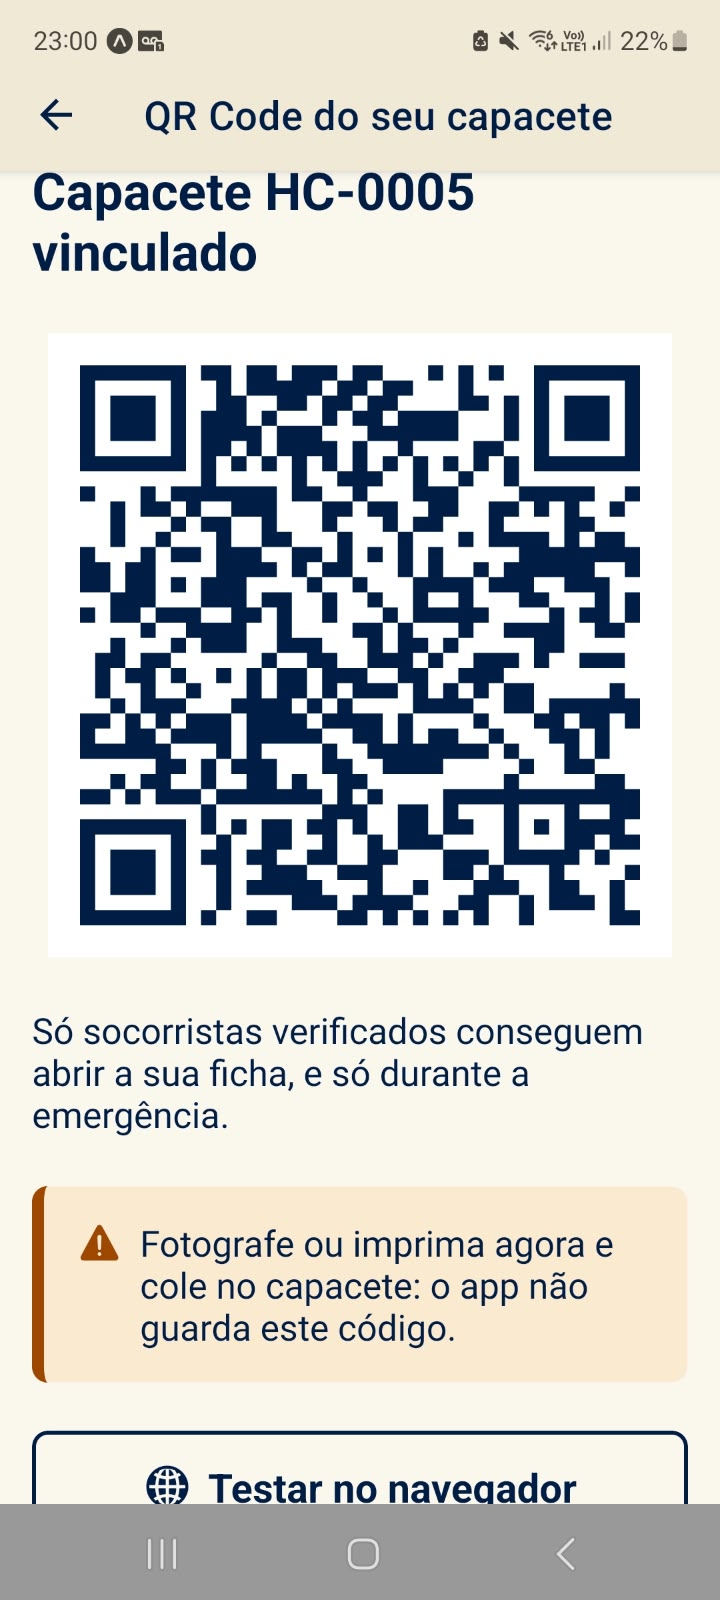
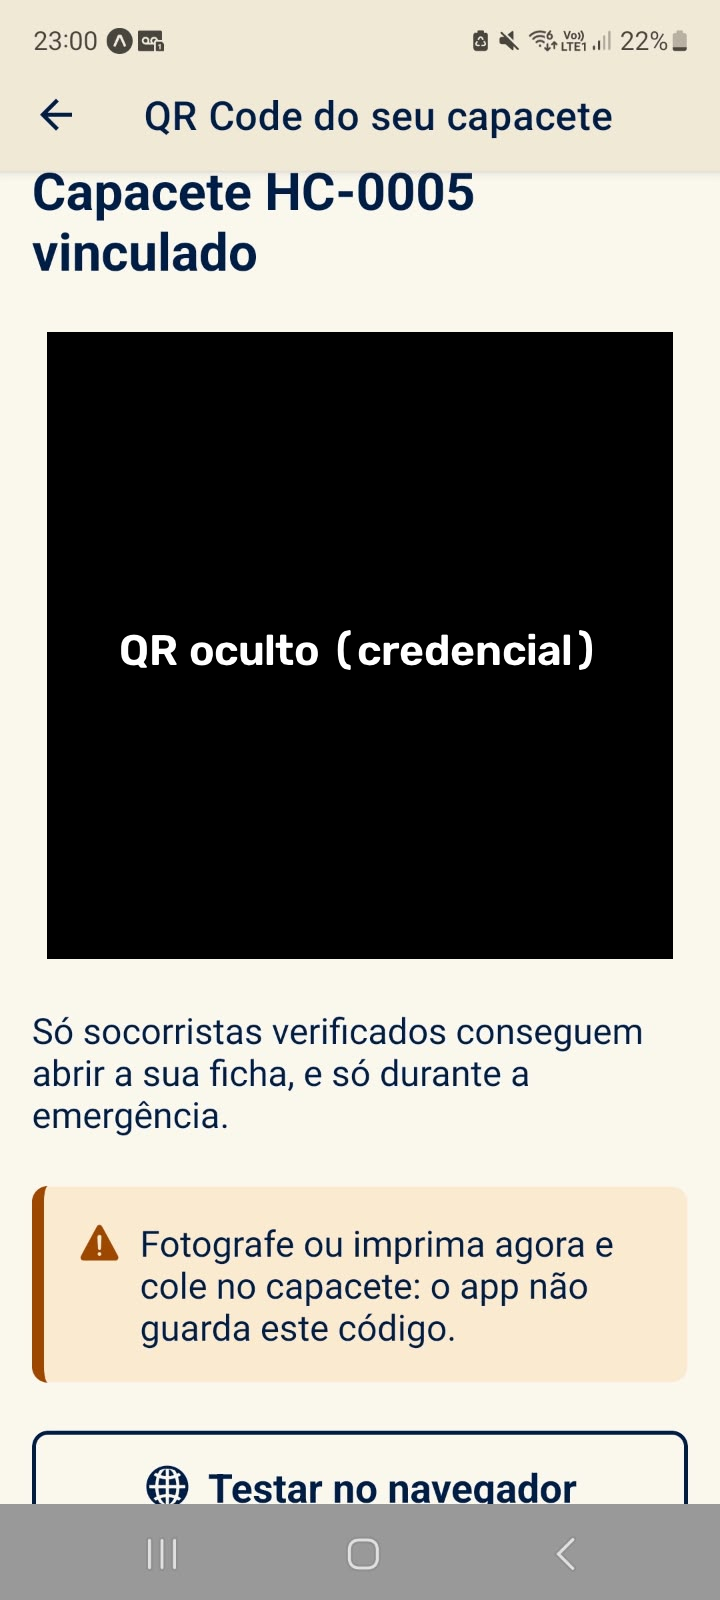
docs: links do Cyber na Ficha, prompts de Cyber e QR tarjado no print do Mobile

diff --git a/prompts.md b/prompts.md
@@ -14,7 +14,24 @@ Exemplo: `08/11 - Domínio da API: "Crie as entidades do domínio seguindo o Con
  
 ## Cybersecurity
  
-*(a preencher)*
+- 19/11 - Plano do módulo: "Monte o plano do módulo de Cybersecurity da GS com as etapas e o que cobre cada ponto da rubrica do professor: motor de PII, Taint Analysis, IA na remediação e painel Risco Cidadão."
+- 19/11 - Regras de escrita: "Textos, comentários e documentos sem travessões. Português do Brasil."
+- 19/11 - Limites do Claude Code: "O Claude Code executa seguindo o cyber/CLAUDE.md e nunca faz git add, commit, push nem troca de branch, nunca abre nem imprime .env ou segredos."
+- 19/11 - Fluxo de git: "Mande todos os comandos de git de uma vez, incluindo PR, merge e a próxima branch."
+- 19/11 - Commits sem atribuição: "Commits sem nenhuma linha de atribuição (nada de Co-Authored-By ou menção ao Claude), nem nos commits nem nas PRs."
+- 19/11 - Prazo: "Lembre que hoje é o dia da entrega: dimensione o plano para caber hoje, com o essencial primeiro e os extras marcados."
+- 19/11 - Etapa 1, motor de PII: "Etapa 1 em cyber/: motor de parsing de PII para CPF, CNH, RG, telefone, e-mail, saúde, localização e senhas, com validação dos dígitos de CPF e CNH, máscaras do Contrato e testes."
+- 19/11 - Etapa 2, Taint Analysis: "Etapa 2 em cyber/: Taint Analysis com marcação na fonte, política deny-by-default, modos AUDITORIA e PROTECAO, rastro explicável sem o valor original e cenários C1 a C11."
+- 19/11 - Etapa 3, IA e Risco Cidadão: "Etapa 3 em cyber/: tradução dos eventos por LLM em mensagem simples para o cidadão, com reserva por tabela, cache e disjuntor, e o índice Risco Cidadão de 0 a 100 com semáforo."
+- 19/11 - Etapa 4, API e painel: "Etapa 4 em cyber/: API FastAPI com interceptador de entrada e painel executivo em HTML, CSS e JS puros mostrando semáforo, mensagem e rastro."
+- 19/11 - Roteiro dos prints: "Me dê tudo detalhado de onde tenho que estar para tirar os prints e detalhes, para eu tirar os prints certos."
+- 19/11 - Ações do vídeo: "Quero que você me explique detalhadamente as ações que são para eu tomar em cada trecho, não precisa alterar nada de ação, nem fala, só as ações mais detalhadas para eu realizar as ações."
+- 19/11 - Evidências no repositório: "Vamos pedir para ele pegar os prints e o vídeo da pasta Downloads, renomear e jogar dentro de evidencias; o vídeo terá só legendas, sem narração, igual ao que fiz no Mobile."
+- 19/11 - Etapa 6, relatório e ZIP: "Etapa 6 em cyber/: auditoria do protótipo, relatório em PDF com as figuras das evidências e ZIP da entrega."
+- 19/11 - Organização das evidências: "Em evidencias, jogaria os png dentro de uma pasta chamada prints, e o video dentro de uma pasta chamada video. Nas documentações queria que ele usasse a marca do nosso projeto."
+- 19/11 - Sumário e links: "No README raiz de Cyber tinha que ter um Sumário, e o link do YouTube pode ficar lá em cima junto com o link do repo."
+- 19/11 - Texto da entrega: "Ele não montou um txt com o meu nome e o link do youtube. Consegue montar?"
+- 19/11 - Fechamento com a central: "Monte a mensagem completa para a central, para atualizar ela."
  
 ## C# Software Development
  

diff --git a/README.md b/README.md
@@ -15,7 +15,7 @@
 | Disciplina | Pasta | Links |
 |---|---|---|
 | Arquitetura Orientada a Serviços (SOA) e Web Services | [`servico-risco/`](servico-risco/) | *(a preencher)* |
-| Cybersecurity | [`cyber/`](cyber/) | *(a preencher)* |
+| Cybersecurity | [`cyber/`](cyber/) | Vídeo: [youtu.be/PSRhGlnmjcI](https://youtu.be/PSRhGlnmjcI) |
 | C# Software Development | [`api/`](api/) | *(a preencher)* |
 | Inteligência Artificial & Machine Learning | [`ml/`](ml/) | Vídeo: *(a preencher)* |
 | Mobile Development & IoT | [`mobile/`](mobile/) | Vídeo: [youtu.be/qUZFudiXW_Q](https://youtu.be/qUZFudiXW_Q) |
@@ -293,6 +293,8 @@ A **proteção dos dados do entregador**.
 - **Taint Analysis:** rastreia esses dados desde a coleta e bloqueia vazamentos em saídas inseguras (logs, respostas da API, notificações push, payloads MQTT e chamados enviados aos voluntários). Os únicos canais autorizados são o Cofre médico (socorrista verificado, SOS ativo, tempo limitado) e o envio da localização ao contato de emergência.
 - **Tradução via IA:** um LLM traduz as falhas técnicas em alertas claros para o cidadão. Exemplo: *"Sua ficha médica poderia aparecer no registro do sistema. Isso já foi bloqueado."*
 - **Dashboard:** indicador **Risco Cidadão** atualizado.
+
+Detalhes, evidências e como rodar: [`cyber/README.md`](cyber/README.md). Vídeo do painel: [youtu.be/PSRhGlnmjcI](https://youtu.be/PSRhGlnmjcI).
 
 ### Testing, Compliance & QA (`/docs`)
 - **Features no Azure Boards:** detecção de queda, cancelamento, SOS escalonado, rede de voluntários, Cofre médico, Índice de Risco do Turno, alerta de calor e cadastro, cada uma com descrição e critérios de aceite.

diff --git a/mobile/README.md b/mobile/README.md
@@ -375,7 +375,7 @@ Cópia no repositório: [docs/video/helmcare-app-mobile.mp4](docs/video/helmcare
 - **"Sair" não revoga no servidor:** o "Sair" apaga os tokens do celular, mas o contrato não tem rota de logout, então o token de renovação continua válido até vencer.
 - **Histórico depois do "Sair":** o histórico local da conta continua no celular e volta quando a mesma conta entra de novo (ele não tem dado pessoal).
 - **Só notificação local:** não há push remoto. Com o app minimizado, só o alerta do turno continua sendo consultado, como melhor esforço, porque o Android pode pausar o app.
-- **QR Code no print e no vídeo:** o QR que aparece no print 14-qr-capacete.png e no vídeo é de um capacete do banco de desenvolvimento local, com dados simulados. Ele aponta para um IP de rede privada e não abre nada fora da rede do autor. Num ambiente real, o QR é credencial e não seria publicado.
+- **QR Code do print 14:** o QR aparece tarjado, porque o qrToken é uma credencial. O token que aparecia no print e no vídeo foi trocado no banco de desenvolvimento e não abre mais o Cofre.
 
 ---
 
